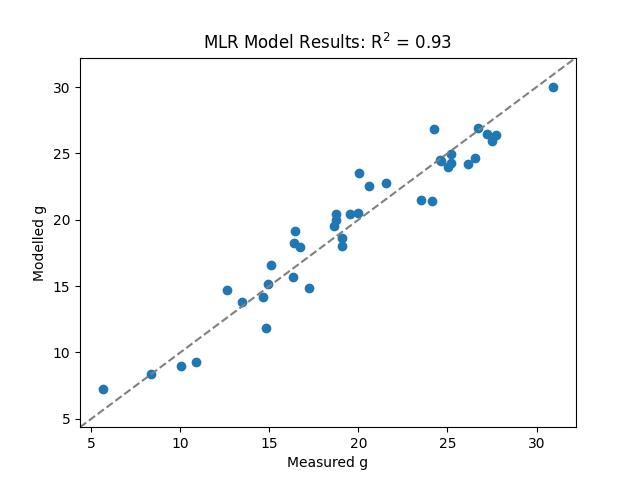
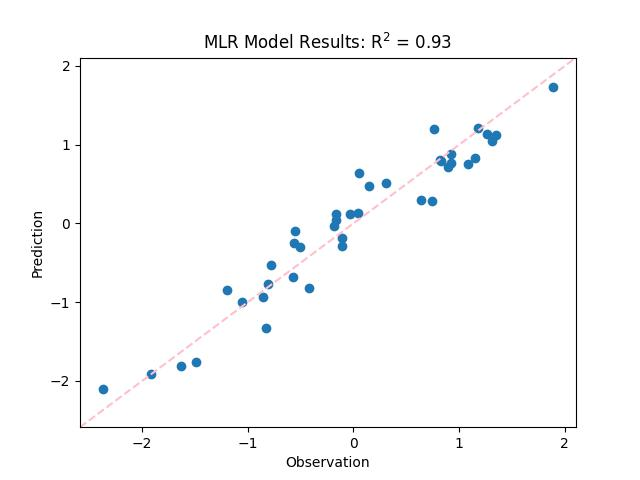
Assn 1 commit - should be done

diff --git a/Assn1/main.py b/Assn1/main.py
@@ -1,9 +1,5 @@
-import os
-import statistics
-from pathlib import Path
-
-import learn
-
+import itertools
+from RegressionFunctions import stepwise_selection
 import plottools
 import numpy as np
 import pandas as pd
@@ -70,27 +66,31 @@ def q_2_a():
 
     plt.xlabel('t')
     plt.legend()
-    plt.savefig('Assn1/Plots/Q2_1.jpg')
+    plt.savefig('Assn1/Plots/Q2_a.jpg')
     plt.close()
 
 
 def q_2_b():
     df = pd.read_csv("Assn1/data/mlr.csv")
-    X = df.iloc[:,0:5].values
-    y = df['y']
+    data_norm = (df - df.mean()) / df.std()
+
+    # normalize data
+    X_norm = data_norm.iloc[:,0:5].values
+    y_norm = data_norm['y']
+
     # make MLR model, fit to the data, and predict y
     lm_MLR = linear_model.LinearRegression()
-    model = lm_MLR.fit(X, y)
-    ypred_MLR = lm_MLR.predict(X)  # y predicted by MLR
+    model = lm_MLR.fit(X_norm, y_norm)
+    ypred_MLR = lm_MLR.predict(X_norm)  # y predicted by MLR
     intercept_MLR = lm_MLR.intercept_  # intercept predicted by MLR
     coef_MLR = lm_MLR.coef_  # regression coefficients in MLR model
-    R2_MLR = lm_MLR.score(X, y)  # R-squared value from MLR model
-    corr_coef = np.corrcoef(ypred_MLR, y)  # Pearson correlation between modeled and
+    R2_MLR = lm_MLR.score(X_norm, y_norm)  # R-squared value from MLR model
+    corr_coef = np.corrcoef(ypred_MLR, y_norm)  # Pearson correlation between modeled and
     print('correlation = ' + str(corr_coef[0, 1]))
-    print('MLR coeff = ' + str(coef_MLR[0, 1]))
+    print('MLR coeff = ' + str(coef_MLR))
     # visualize MLR model performance
     ax = plt.subplot()
-    ax.scatter(y, ypred_MLR)
+    ax.scatter(y_norm, ypred_MLR)
 
     ### We want to draw a 1:1 line but don't know the lims to draw it over -- so we query the plot lims,
     ### Draw a line accordingly and ensure to set the lims
@@ -104,11 +104,84 @@ def q_2_b():
     ax.set_title(f'MLR Model Results: R$^2$ = {round(R2_MLR, 2)}')
     plt.savefig('Assn1/Plots/Q2_b.jpg')
 
-# Press the green button in the gutter to run the script.
+def q_2_c():
+    df = pd.read_csv("Assn1/data/mlr.csv")
+
+    # normalize data
+    data_norm = (df - df.mean()) / df.std()
+    X_norm = data_norm.iloc[:,0:5]
+    y_norm = data_norm['y']
+
+    # use stepwise regression to find which predictors to use
+    result = stepwise_selection(X_norm, y_norm)
+    print('resulting features:')
+    print(result)
+
+    # do MLR using predictors chosen from stepwise regression
+    lm_step = linear_model.LinearRegression()
+    model_step = lm_step.fit(X_norm[result], y_norm)
+    ypred_step = lm_step.predict(X_norm[result])  # y predicted by MLR
+    intercept_step = lm_step.intercept_  # intercept predicted by MLR
+    coef_step = lm_step.coef_  # regression coefficients in MLR model
+    R2_step = lm_step.score(X_norm[result], y_norm)  # R-squared value from MLR model
+
+    print('Stepwise MLR coeff = ' + str(coef_step))
+    print('Stepwise R2 coeff = ' + str(R2_step))
+
+
+    # visualize stepwise model performance
+    ax = plt.subplot()
+    ax.scatter(y_norm, ypred_step)
+    lims = ax.get_xlim()
+    ax.set_xlim(lims)
+    ax.set_ylim(lims)
+    ax.plot(lims, lims, ls="--", c="grey")
+    ax.set_xlabel('Measured g')
+    ax.set_ylabel('Modelled g')
+    ax.set_title(f'Stepwise Model Results: R$^2$ = {round(R2_step, 2)}')
+    plt.savefig('Assn1/Plots/Q2_c.jpg')
+    # Apply calibration - validation approach on standardized input
+    # goal: loop through every combination of normalized predictors, make linear model, and find one with best performance
+    R2_best = []
+    combo_best = []
+    for kk in range(1, 5):  # for each total number of predictors to use in model (from 1 predictor to 5)
+        v0 = range(np.shape(X_norm)[1])
+        combinations = list(itertools.combinations(range(np.shape(X_norm)[1]), kk))  # all possible combinations of kk total predictors
+        R2_test = []
+        for ind in range(len(combinations)):  # for each combination of predictors, make MLR model and compute R ^ 2
+            test_vars = np.array(combinations[ind])
+            X_test = X_norm.iloc[::2, test_vars]  # calibation sample consists of all odd indices in the data
+            y_test = y_norm.iloc[::2]
+            X_valid = X_norm.iloc[1::2, test_vars]  # validation sample consists of all even indices in the data
+            y_valid = y_norm.iloc[1::2]
+            lm_test = linear_model.LinearRegression()
+            model_test = lm_test.fit(X_test, y_test)
+            ypred_test = lm_test.predict(X_test)  # y predicted by MLR
+            R2_test.append(lm_test.score(X_valid, y_valid))  # R-squared value from MLR model
+            R2_best.append(np.max(R2_test))
+            combo_best.append(combinations[np.argmax(R2_test)])
+        R2_best_final = np.max(R2_best)
+        combo_best_final = combo_best[np.argmax(R2_best)]
+        print('The best combination of predictors is: ')
+        print(list(X_norm.columns[np.asarray(combo_best_final)]))
+
+        # build linear model using the best combination of predictors
+        X_calib_valid = X_norm.iloc[:, np.asarray(combo_best_final)]
+        lm_calib_valid = linear_model.LinearRegression()
+        model_calib_valid = lm_calib_valid.fit(X_calib_valid, y_norm)
+        ypred_calib_valid = lm_calib_valid.predict(X_calib_valid)  # y predicted by MLR
+        intercept_calib_valid = lm_calib_valid.intercept_  # intercept predicted by MLR
+        coef_calib_valid = lm_calib_valid.coef_  # regression coefficients in MLR model
+        R2_calib_valid = lm_calib_valid.score(X_calib_valid, y_norm)  # R-squared value from MLR model
+
+
+
 if __name__ == '__main__':
     # q_1_1()
     # q_1_2()
     # q_2_a()
-    q_2_b()
+    # q_2_b()
+    q_2_c()
 
 # See PyCharm help at https://www.jetbrains.com/help/pycharm/
+

diff --git a/Assn1/RegressionFunctions.py b/Assn1/RegressionFunctions.py
@@ -1,0 +1,54 @@
+import statsmodels.api as sm
+import numpy as np
+import pandas as pd
+
+
+def stepwise_selection(X, y,
+                       initial_list=[],
+                       threshold_in=0.01,
+                       threshold_out = 0.05,
+                       verbose=True):
+    """ Perform a forward-backward feature selection
+    based on p-value from statsmodels.api.OLS
+    Arguments:
+        X - pandas.DataFrame with candidate features
+        y - list-like with the target
+        initial_list - list of features to start with (column names of X)
+        threshold_in - include a feature if its p-value < threshold_in
+        threshold_out - exclude a feature if its p-value > threshold_out
+        verbose - whether to print the sequence of inclusions and exclusions
+    Returns: list of selected features
+    Always set threshold_in < threshold_out to avoid infinite looping.
+    See https://en.wikipedia.org/wiki/Stepwise_regression for the details
+    """
+    included = list(initial_list)
+    while True:
+        changed=False
+        # forward step
+        excluded = list(set(X.columns)-set(included))
+        new_pval = pd.Series(index=excluded,dtype='float64')
+        for new_column in excluded:
+            model = sm.OLS(y, sm.add_constant(pd.DataFrame(X[included+[new_column]]))).fit()
+            new_pval[new_column] = model.pvalues[new_column]
+        best_pval = new_pval.min()
+
+        if best_pval < threshold_in:
+            best_feature = new_pval.argmin()
+            included.append(excluded[best_feature])
+            changed=True
+            if verbose:
+                print('Add  {:30} with p-value {:.6}'.format(excluded[best_feature], best_pval))
+        # backward step
+        model = sm.OLS(y, sm.add_constant(pd.DataFrame(X[included]))).fit()
+        # use all coefs except intercept
+        pvalues = model.pvalues.iloc[1:]
+        worst_pval = pvalues.max() # null if pvalues is empty
+        if worst_pval > threshold_out:
+            changed=True
+            worst_feature = pvalues.argmax()
+            included.remove(worst_feature)
+            if verbose:
+                print('Drop {:30} with p-value {:.6}'.format(worst_feature, worst_pval))
+        if not changed:
+            break
+    return included
